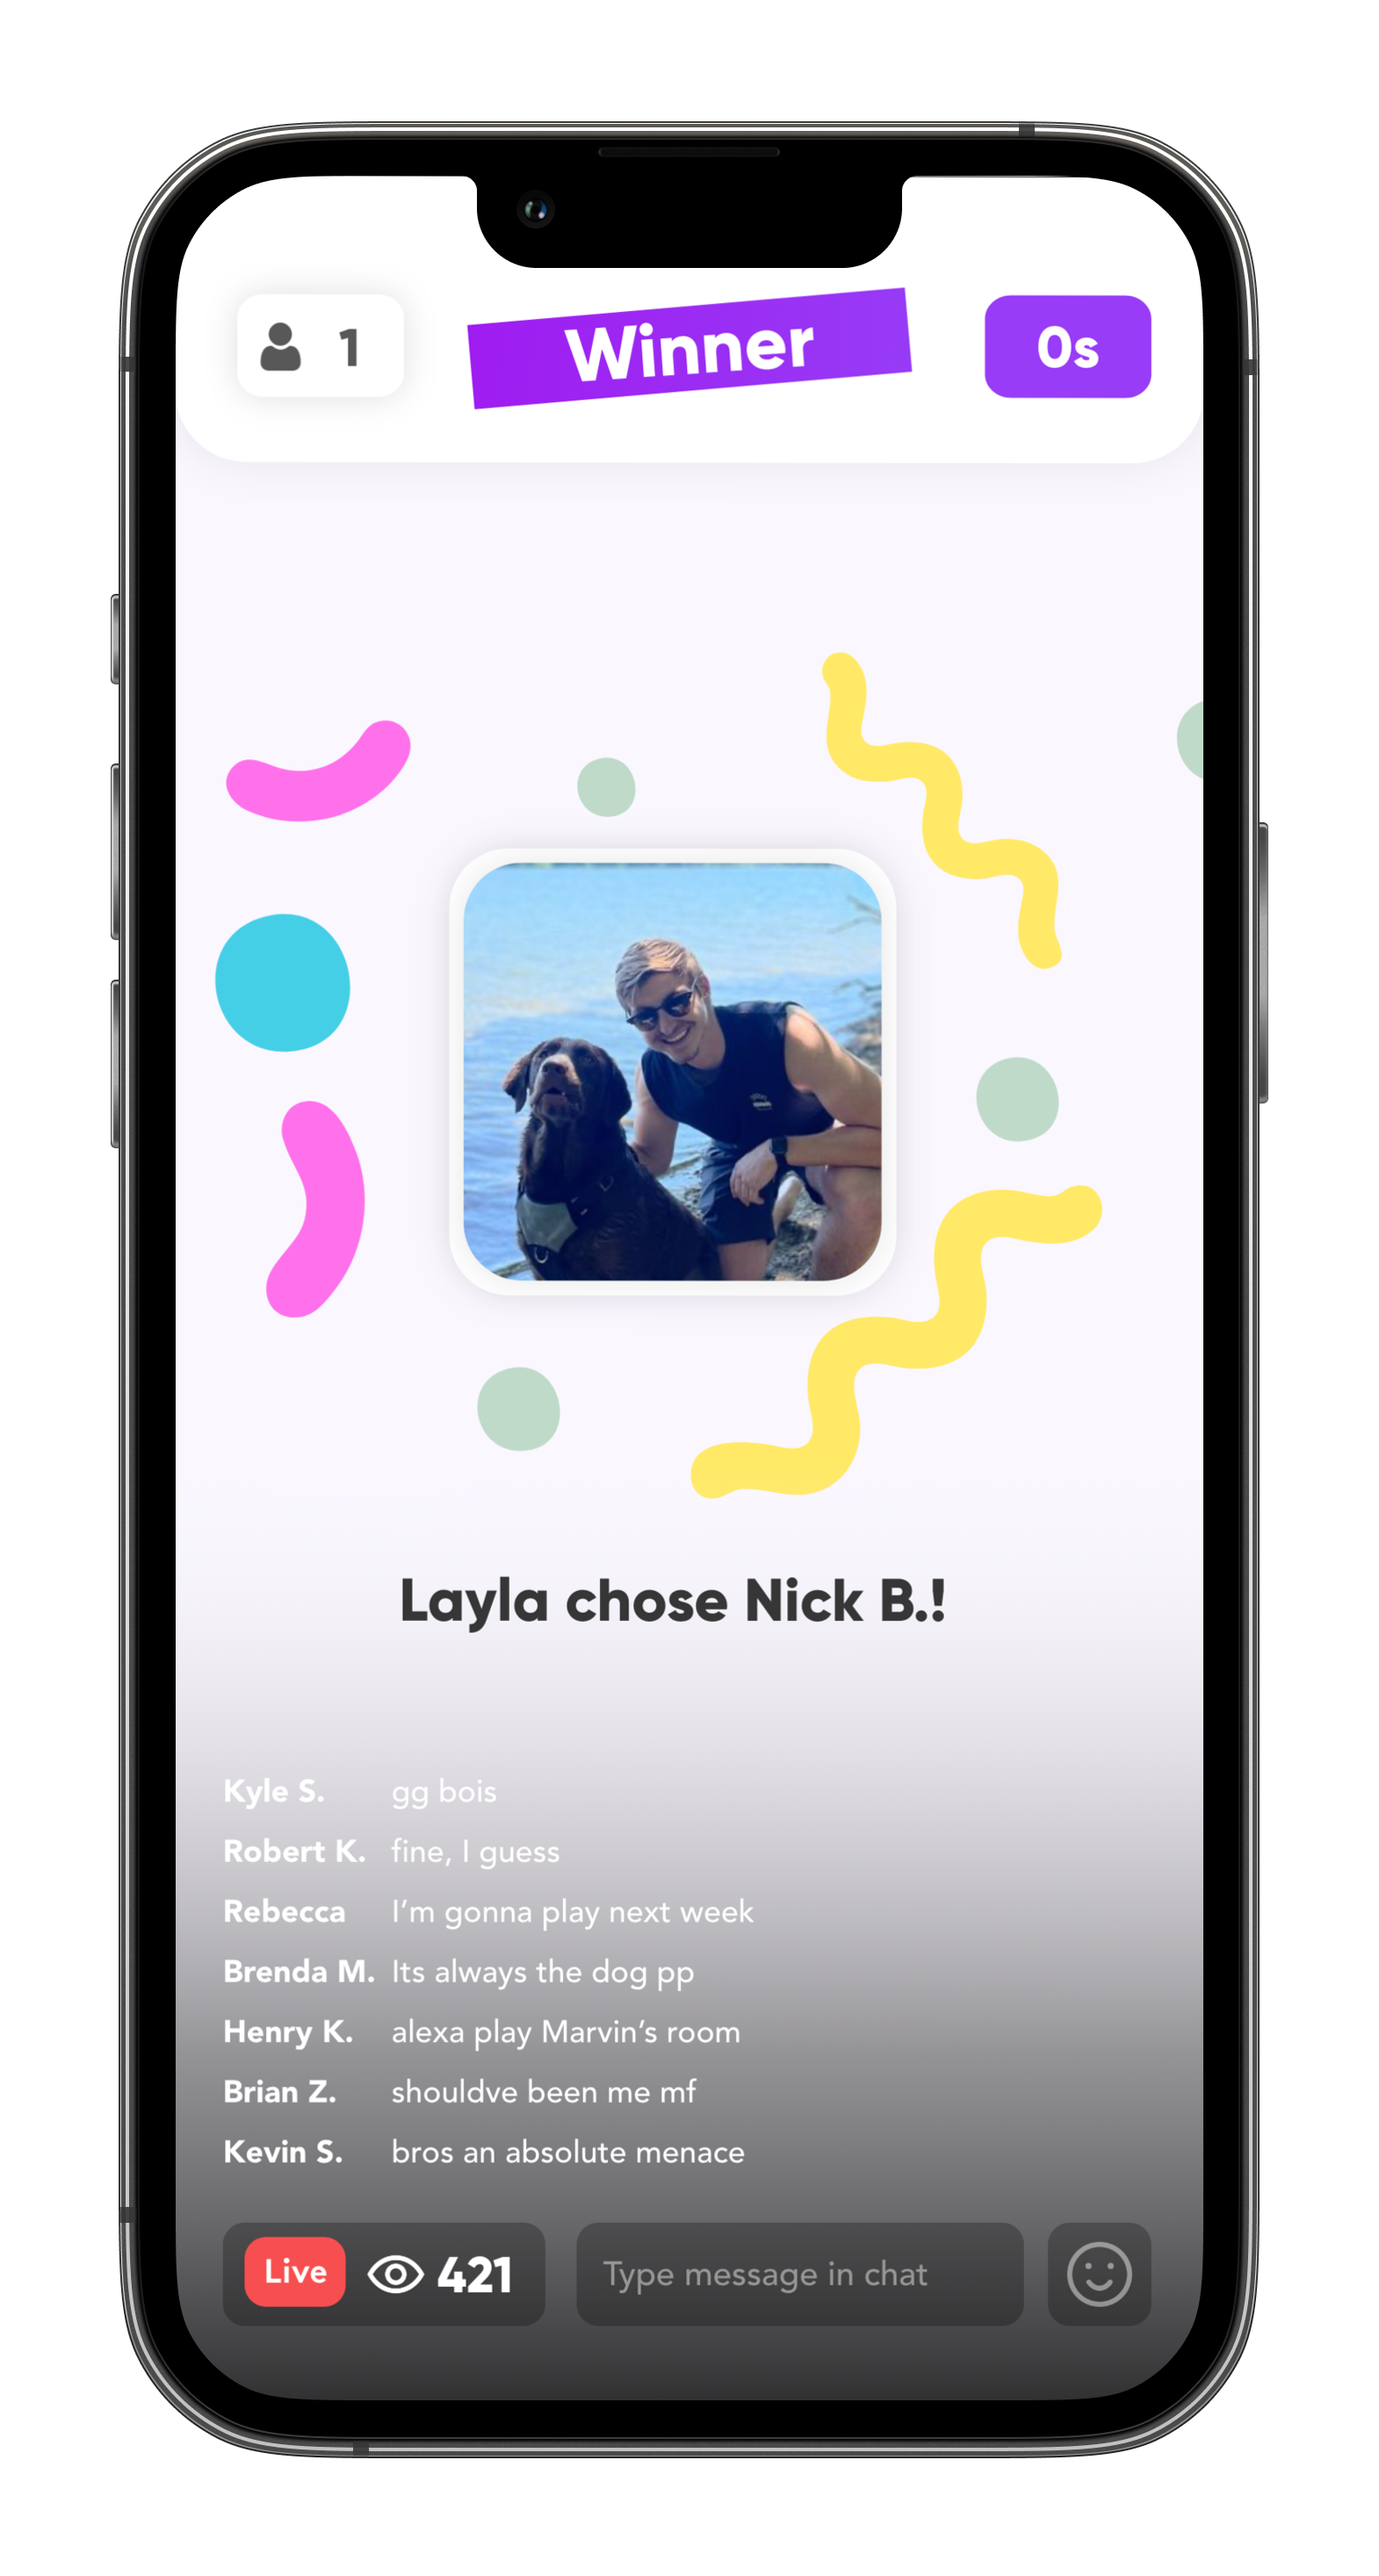
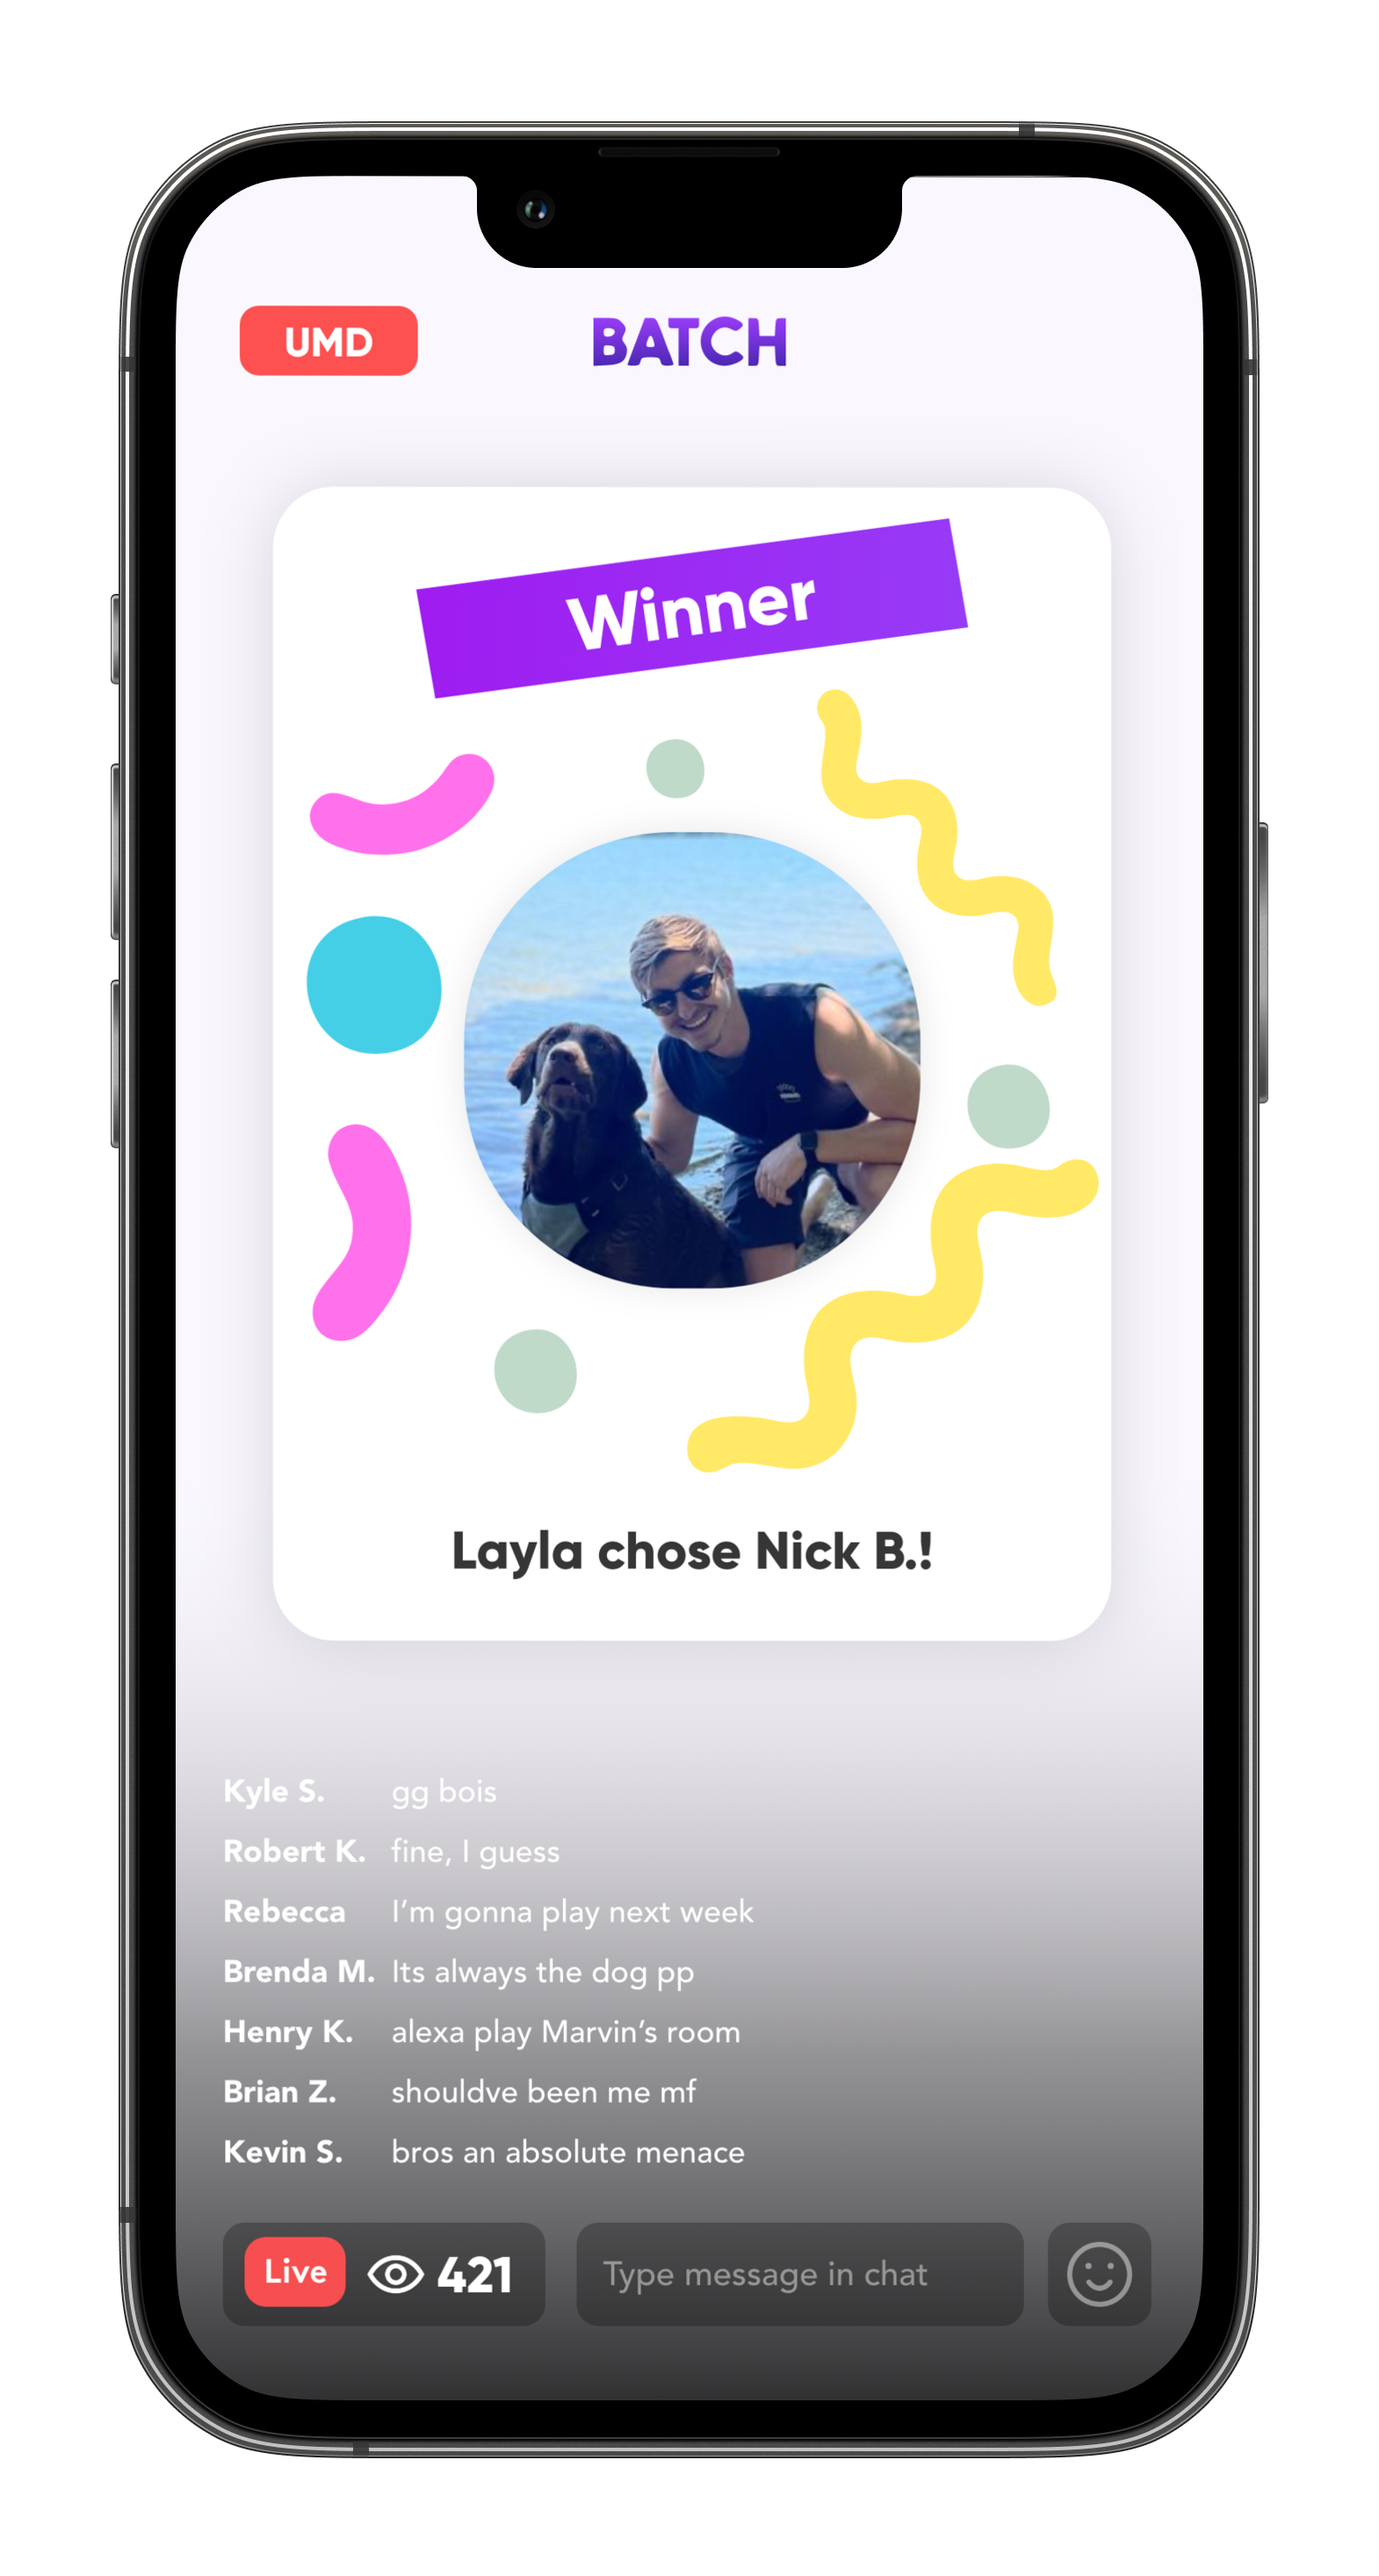
ready to go

diff --git a/index.html b/index.html
@@ -129,7 +129,7 @@ https://templatemo.com/tm-540-lava-landing-page
                 <div class="left-image col-lg-3 col-md-12 col-sm-12 mobile-bottom-fix-big"
                     data-scroll-reveal="enter left move 30px over 0.6s after 0.4s">
                     <div class="back-mask"></div>
-                    <img src="assets/images/match_mockup.png" class="rounded img-fluid d-block mx-auto" alt="App">
+                    <img src="assets/images/reactlive.png" class="rounded img-fluid d-block mx-auto" alt="App">
                 </div>
                 <div class="right-text col-lg-6 col-md-12 col-sm-12 mobile-bottom-fix">
                     <h1><span style="color:#484848">Play as a contestant</span>
@@ -142,7 +142,6 @@ https://templatemo.com/tm-540-lava-landing-page
 
     <footer>
         <p>Made with &#9829; in College Park, MD</p>
-        <a href="itms-services://?action=download-manifest&url=https://bethebatch.com/manifest.plist">Install App</a>
     </footer>
 
     <!-- jQuery -->
